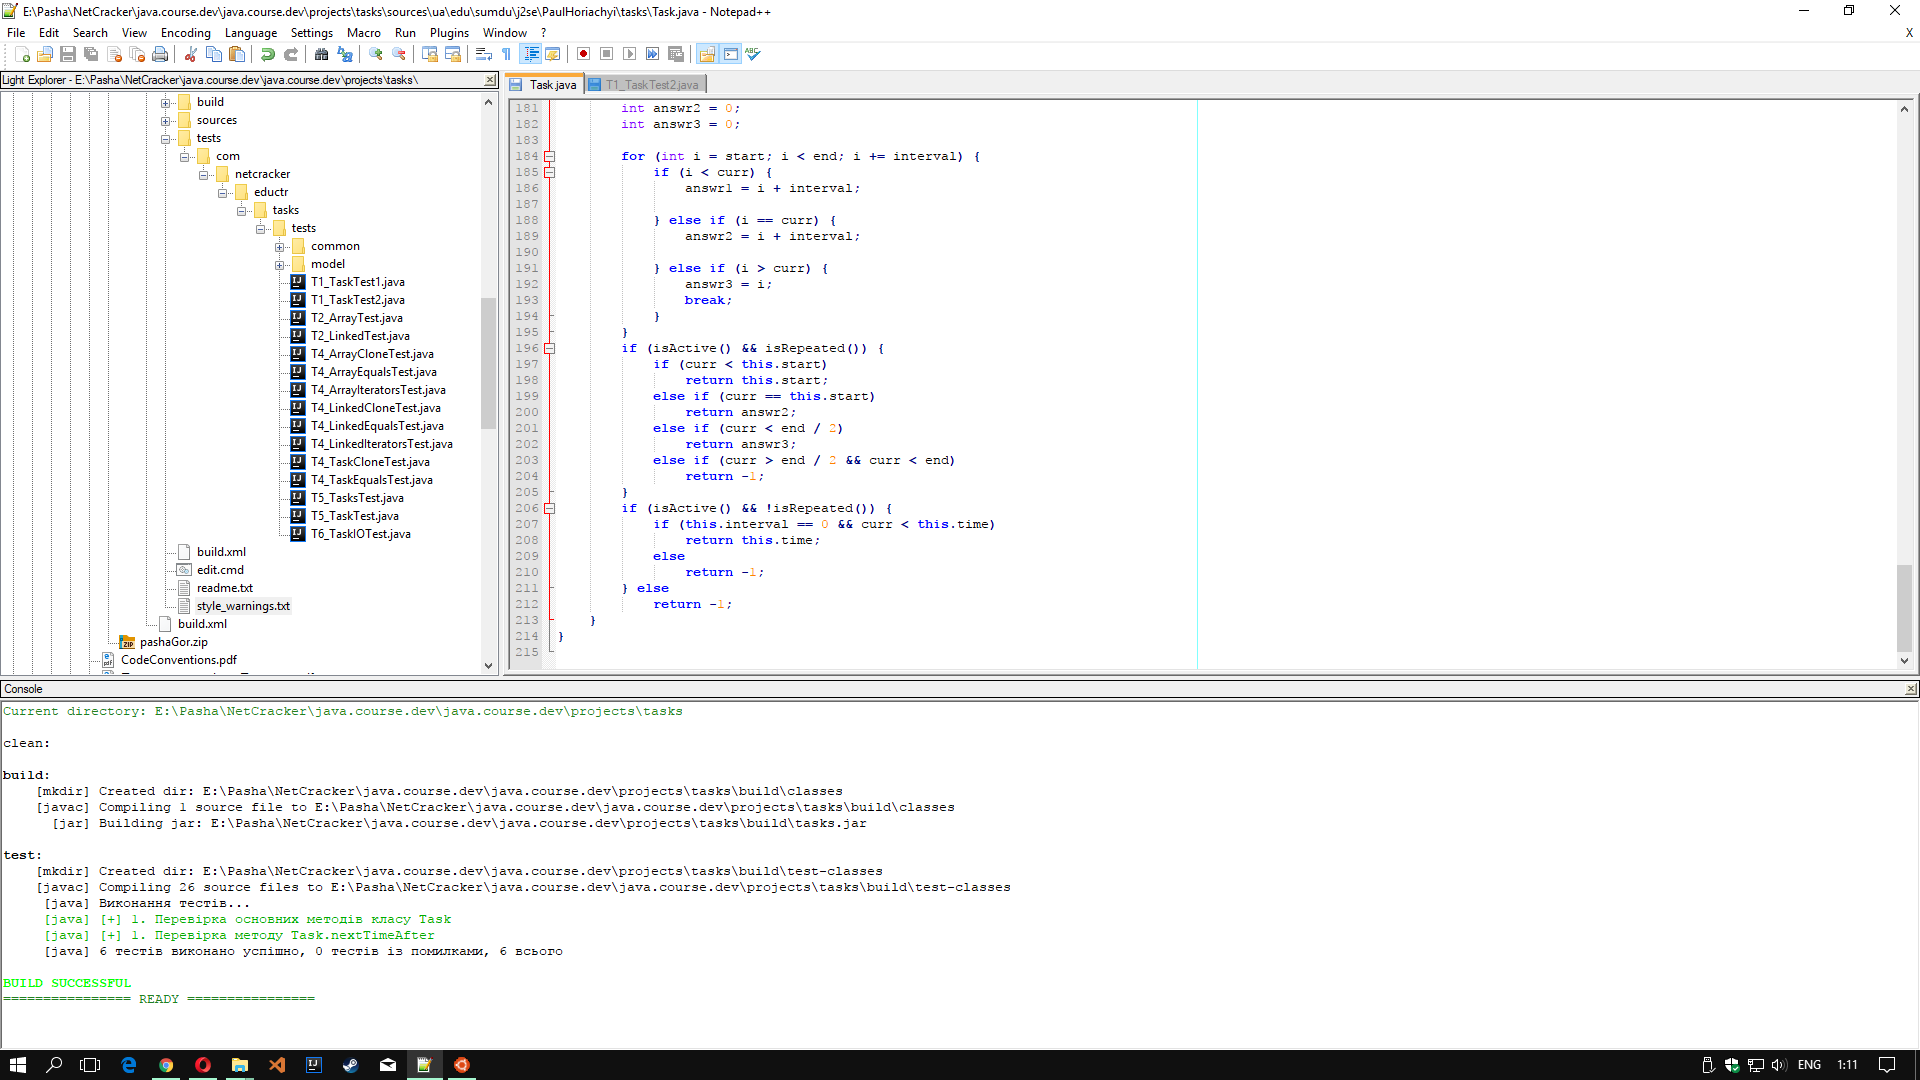
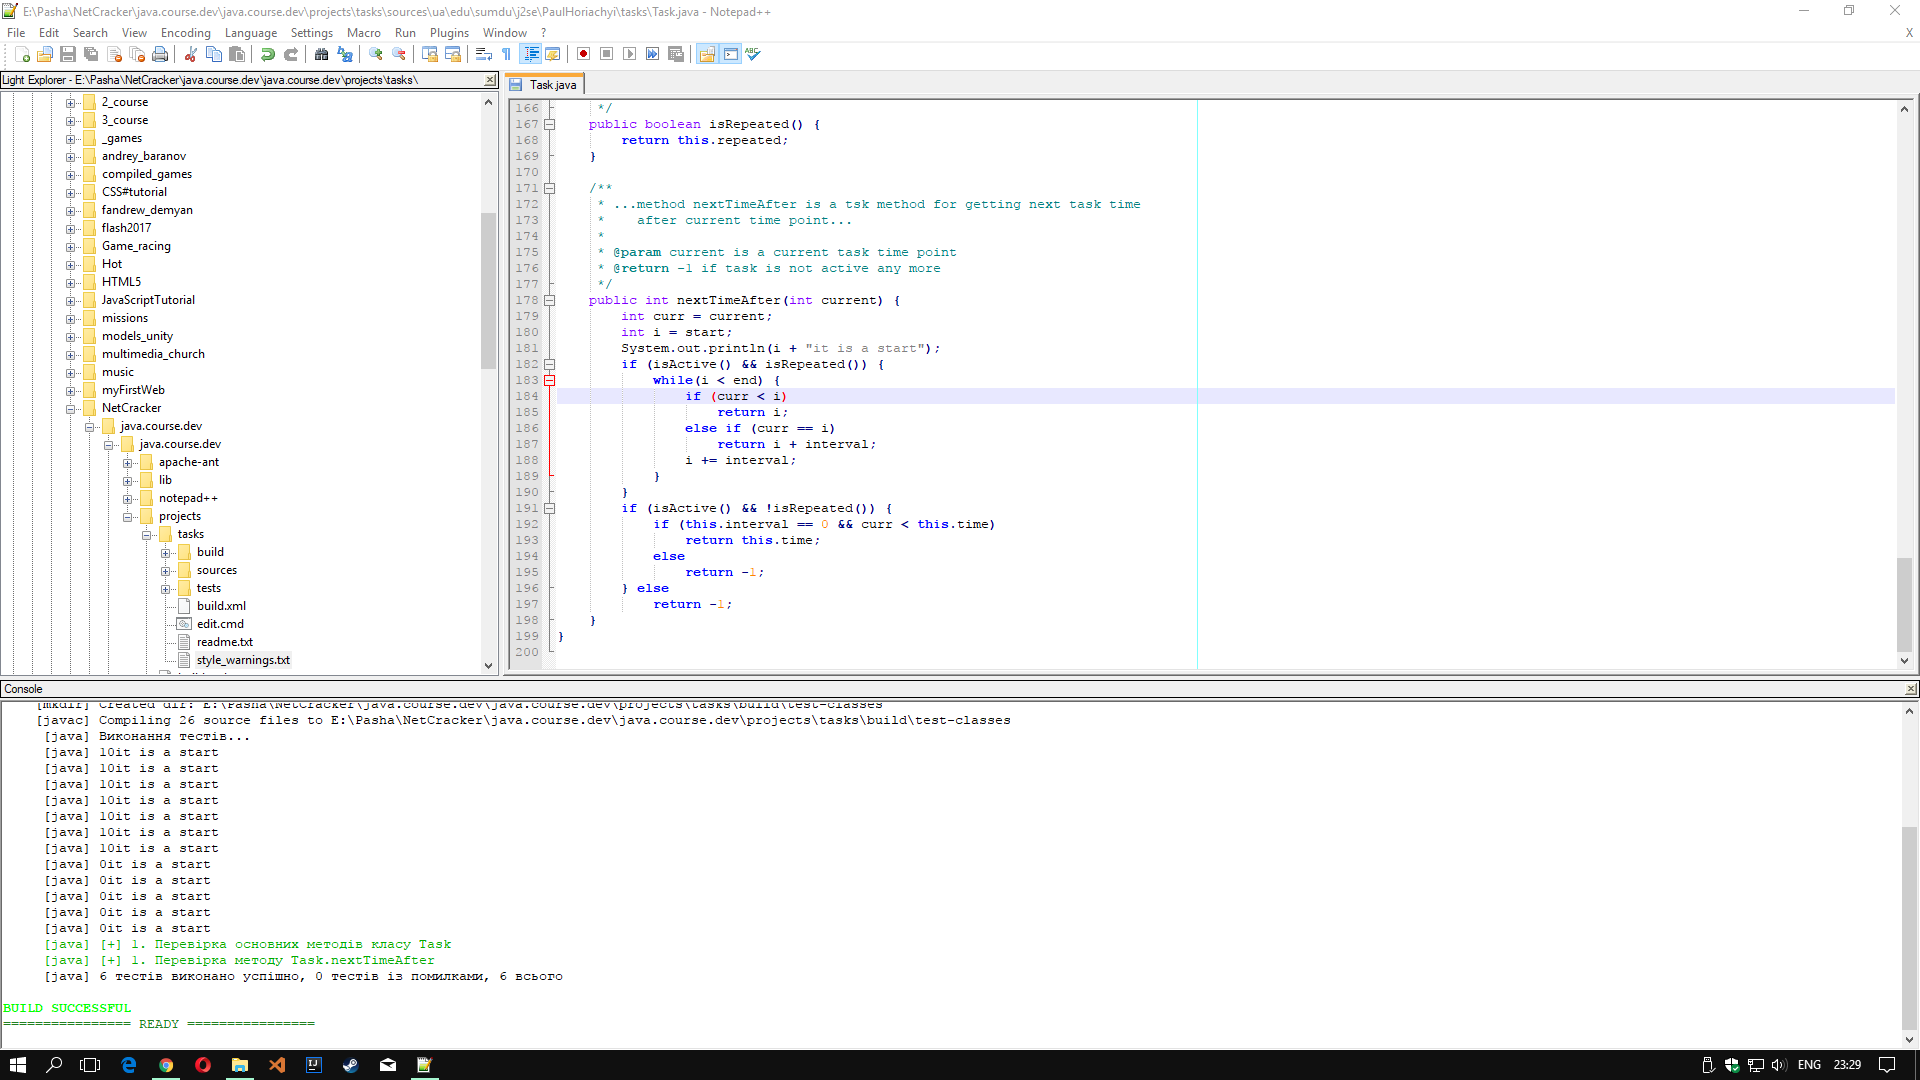
NextTimeAfter was done

diff --git a/HomeTask5/java.course.dev/projects/tasks/sources/ua/edu/sumdu/j2se/paulhoriachyi/tasks/Task.java b/HomeTask5/java.course.dev/projects/tasks/sources/ua/edu/sumdu/j2se/paulhoriachyi/tasks/Task.java
@@ -177,31 +177,16 @@ public class Task {
      */
     public int nextTimeAfter(int current) {
         int curr = current;
-        int answr1 = 0;
-        int answr2 = 0;
-        int answr3 = 0;
-    
-        for (int i = start; i < end; i += interval) {
-            if (i < curr) {
-                answr1 = i + interval;
-                
-            } else if (i == curr) {
-                answr2 = i + interval;
-                
-            } else if (i > curr) {
-                answr3 = i;
-                break;
-            }
-        }
+        int i = start;
+        System.out.println(i + "it is a start");
         if (isActive() && isRepeated()) {
-            if (curr < this.start)
-                return this.start;
-            else if (curr == this.start)
-                return answr2;
-            else if (curr < end / 2)
-                return answr3;
-            else if (curr > end / 2 && curr < end)
-                return -1;
+            while(i < end) {
+                if (curr < i)
+                    return i;
+                else if (curr == i)
+                    return i + interval;
+                i += interval;
+            }  
         }
         if (isActive() && !isRepeated()) {
             if (this.interval == 0 && curr < this.time)
